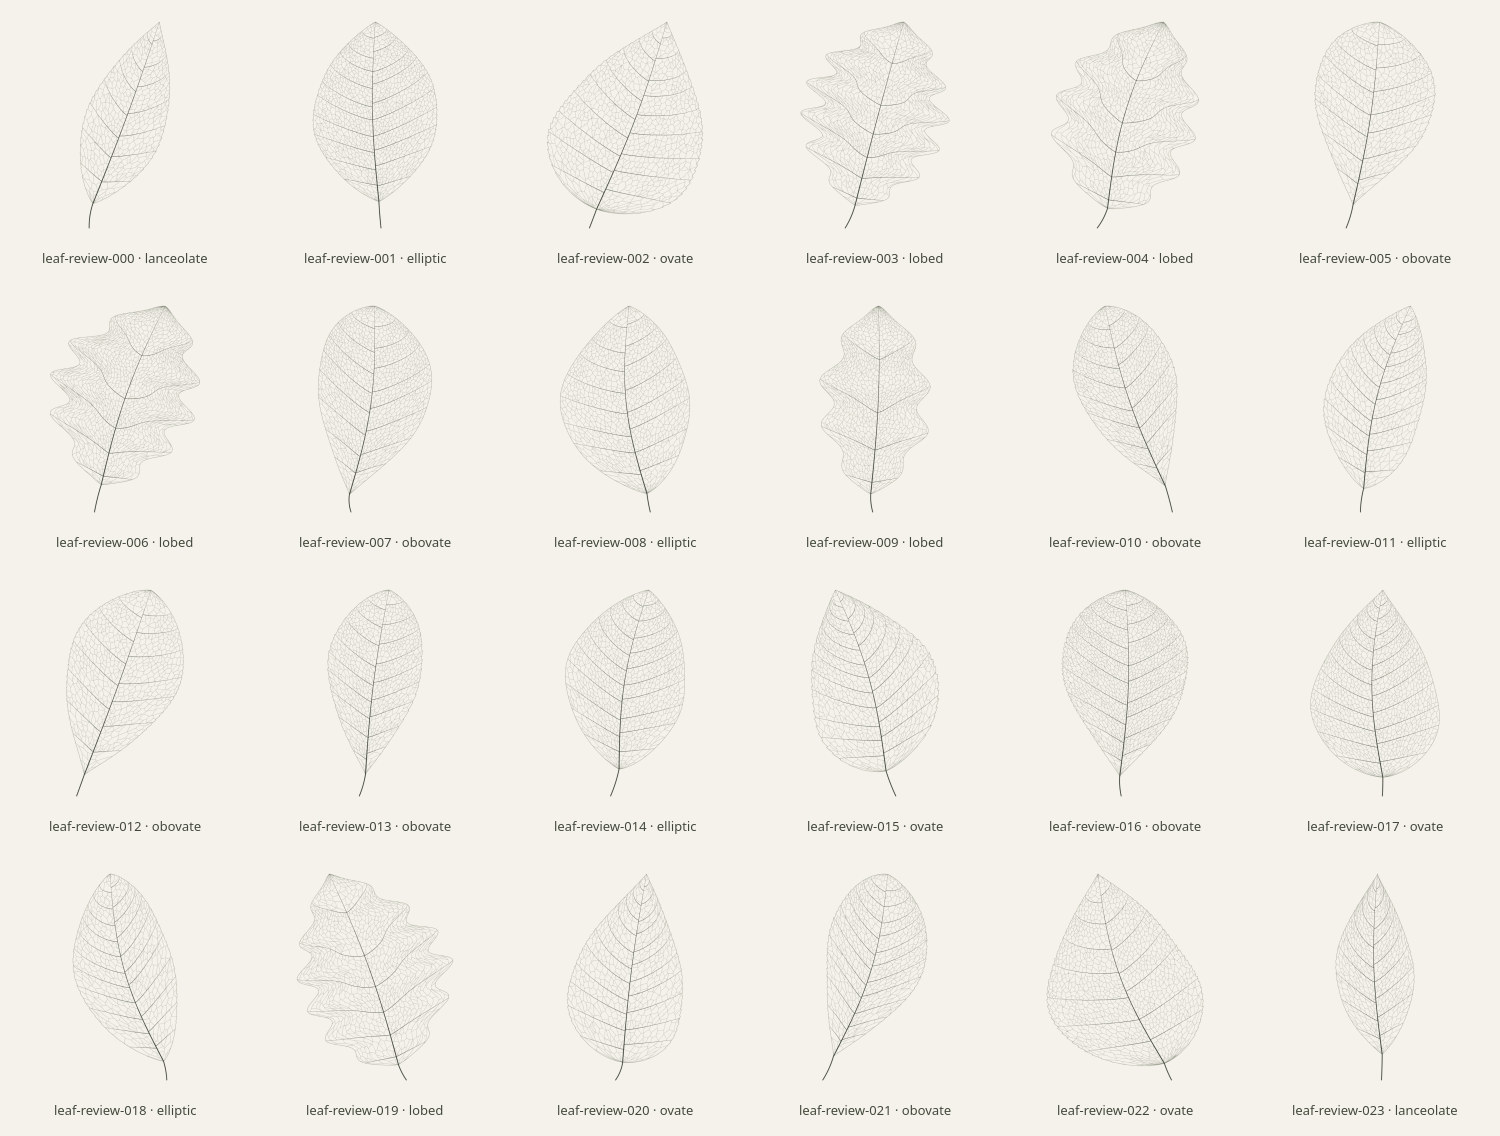
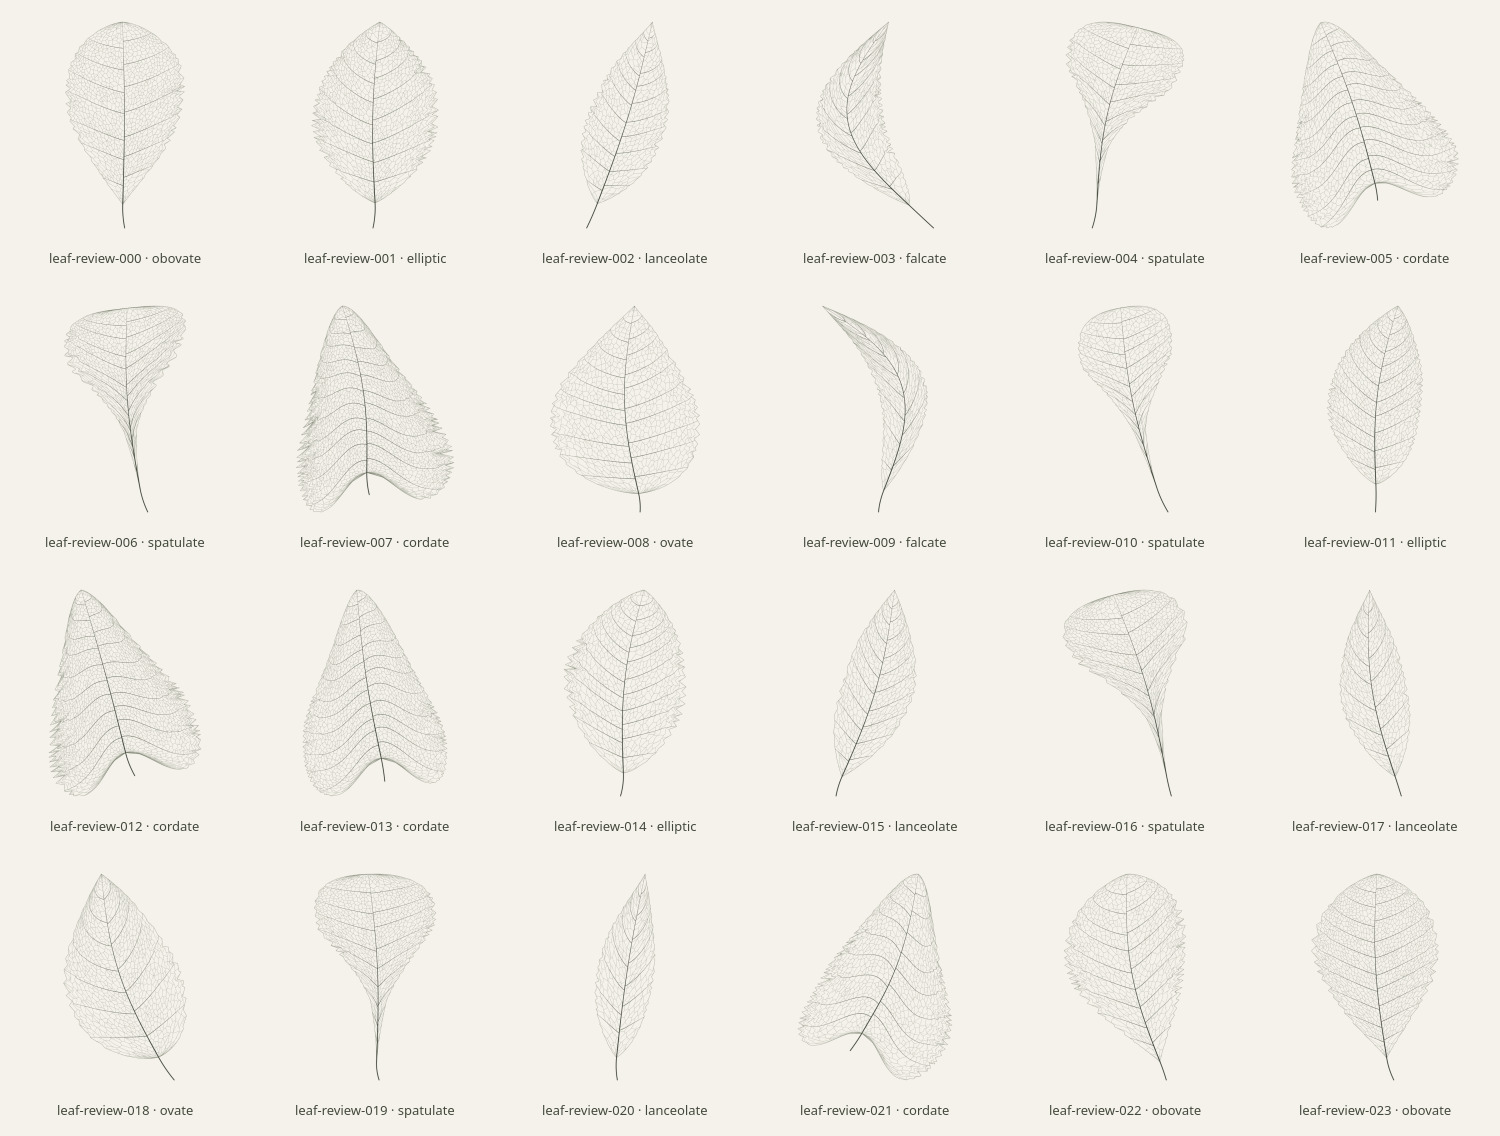
Add ragged leaf margins and eight distinct botanical profiles

diff --git a/src/generators/leaves/generate.js b/src/generators/leaves/generate.js
@@ -8,8 +8,50 @@ const profiles = [
   { name: 'ovate', a: .58, b: 1.05, breadth: [.30, .41], lobes: 0 },
   { name: 'lanceolate', a: .88, b: 1.12, breadth: [.15, .23], lobes: 0 },
   { name: 'obovate', a: 1.12, b: .69, breadth: [.25, .36], lobes: 0 },
-  { name: 'lobed', a: .67, b: .82, breadth: [.30, .40], lobes: 5 },
+  { name: 'lobed', a: .67, b: .82, breadth: [.33, .43], lobes: 5 },
+  { name: 'cordate', a: .38, b: .77, breadth: [.42, .51], lobes: 0 },
+  { name: 'spatulate', a: 1.75, b: .38, breadth: [.25, .34], lobes: 0 },
+  { name: 'falcate', a: .79, b: 1.12, breadth: [.12, .19], lobes: 0 },
 ];
+
+function knotValue(knots, t, rounded = false) {
+  let lo = 0, hi = knots.length - 1;
+  while (hi - lo > 1) {
+    const mid = (lo + hi) >> 1;
+    if (knots[mid][0] < t) lo = mid; else hi = mid;
+  }
+  const [a, b] = [knots[lo], knots[hi]];
+  const fraction = clamp((t - a[0]) / (b[0] - a[0]), 0, 1);
+  return lerp(a[1], b[1], rounded ? .5 - .5 * Math.cos(Math.PI * fraction) : fraction);
+}
+
+function irregularMargin(random, count, strength, style) {
+  const spacing = Array.from({ length: count }, () => .55 + random() * .95);
+  const total = spacing.reduce((sum, size) => sum + size, 0);
+  const knots = [[0, 0]];
+  let t = 0;
+  for (let i = 0; i < count; i++) {
+    const step = spacing[i] / total;
+    const peak = style === 'serrate' ? .53 + random() * .31 : .30 + random() * .37;
+    const notch = strength * (.48 + random() * .9) * (random() < .16 ? 1.45 : 1);
+    knots.push([t + step * peak, -strength * random() * .16]);
+    t += step;
+    knots.push([i === count - 1 ? 1 : t, i === count - 1 ? 0 : Math.min(.18, notch)]);
+  }
+  return { knots, style, count };
+}
+
+function irregularLobes(random, count) {
+  const tips = Array.from({ length: count }, (_, i) => (i + .38 + (random() - .5) * .22) / count);
+  const depths = Array.from({ length: count + 1 }, () => .23 + random() * .15);
+  const knots = [[0, 1 - depths[0]]];
+  tips.forEach((tip, i) => {
+    knots.push([tip, .95 + random() * .10]);
+    if (i < tips.length - 1) knots.push([lerp(tip, tips[i + 1], .42 + random() * .16), 1 - depths[i + 1]]);
+  });
+  knots.push([1, 1 - depths.at(-1)]);
+  return { tips, knots };
+}
 
 function clip(polygon, nx, ny, c) {
   const result = [];
@@ -79,32 +121,55 @@ export function leafGeometry(seed) {
   const b = profile.b + (random() - .5) * .14;
   const peak = a / (a + b);
   const normalizer = peak ** a * (1 - peak) ** b;
-  const bend = (random() - .5) * 95;
+  const bend = profile.name === 'falcate'
+    ? (random() < .5 ? -1 : 1) * length * (.23 + random() * .12)
+    : (random() - .5) * 95;
   const lean = (random() - .5) * 55;
   const asymmetry = (random() - .5) * .13;
   const phase = random() * TAU;
-  const lobes = profile.lobes ? 4 + Math.floor(random() * 3) : 0;
-  const lobeDepth = .18 + random() * .13;
-  const teeth = profile.name === 'lobed' ? 0 : (random() < .48 ? 20 + Math.floor(random() * 17) : 0);
-  const toothDepth = .012 + random() * .018;
+  const lobes = profile.lobes ? 3 + Math.floor(random() * 4) : 0;
+  const teeth = (profile.name === 'cordate' ? 26 : 17) + Math.floor(random() * 14);
+  const marginStyle = ['serrate', 'dentate', 'crenate'][Math.floor(random() * 3)];
+  const marginStrength = (lobes ? .026 : .048) + random() * (lobes ? .039 : .052);
+  const margins = [-1, 1].map(() => irregularMargin(random, teeth, marginStrength, marginStyle));
+  const lobing = lobes ? [-1, 1].map(() => irregularLobes(random, lobes)) : null;
+  const basalShear = profile.name === 'cordate' ? length * (.24 + random() * .08) : 0;
   const angle = (random() - .5) * .72;
   const pairs = lobes ? lobes + 1 : 8 + Math.floor(random() * 5);
   const sweep = .13 + random() * .11;
   const fineSpacing = 12.5 + random() * 4.5;
   const skeleton = [], regions = [];
   const center = t => bend * Math.sin(Math.PI * t) + lean * t;
-  const halfWidth = (t, side) => {
+  const envelopeWidth = (t, side) => {
     if (t <= 0 || t >= 1) return 0;
     const base = breadth * t ** a * (1 - t) ** b / normalizer;
     const uneven = 1 + side * asymmetry * Math.sin(Math.PI * t) + .018 * Math.sin(13 * t + phase + side);
-    const lobed = lobes ? 1 - lobeDepth * (.5 + .5 * Math.cos(TAU * (t * lobes + .13))) : 1;
-    const serrated = teeth ? 1 - toothDepth * (1 - ((t * teeth + .14 * side) % 1)) : 1;
-    return base * uneven * lobed * serrated;
+    const neck = profile.name === 'spatulate' ? .38 + .62 * clamp((t - .32) / .38, 0, 1) : 1;
+    // Keep a small blade beside the thick midrib as a spoon-shaped leaf
+    // narrows into its petiole, rather than pinching it to subpixel width.
+    const basalBlade = profile.name === 'spatulate' ? breadth * .012 * Math.sin(Math.PI * t) ** .35 * Math.exp(-10 * t) : 0;
+    return base * uneven * neck + basalBlade;
   };
+  // A vertical shear creates basal lobes around the cordate petiole notch.
+  // Since y is displaced only as a function of x, the shear preserves the
+  // orientation and connectivity of the existing vein map.
+  const shear = x => basalShear * (1 - Math.exp(-3.8 * (x / breadth) ** 2));
+  const rotate = (x, y) => [x * Math.cos(angle) - y * Math.sin(angle), x * Math.sin(angle) + y * Math.cos(angle)];
   const position = (u, t, side) => {
-    const x = center(t) + side * halfWidth(t, side) * u;
-    const y = -length * t;
-    return [x * Math.cos(angle) - y * Math.sin(angle), x * Math.sin(angle) + y * Math.cos(angle)];
+    const margin = margins[side < 0 ? 0 : 1];
+    const gate = profile.name === 'spatulate' ? clamp((t - .22) / .32, 0, 1) : 1;
+    const indentation = knotValue(margin.knots, t, margin.style === 'crenate') * Math.sin(Math.PI * clamp(t, 0, 1)) ** .65 * gate;
+    // Concentrate raggedness at the edge instead of corrugating the whole
+    // skeleton. With indentation <= .18, d(u - indentation*u^4)/du >= .28,
+    // so even deep notches cannot fold the interior vein network.
+    const innerRadius = u - indentation * u ** 4;
+    const lobe = lobing ? knotValue(lobing[side < 0 ? 0 : 1].knots, t, true) : 1;
+    // Lobe indentation also fades toward the midrib. Its minimum derivative
+    // is positive (lobe >= .62), so composition with the margin map stays
+    // monotone while leaving inner areoles less distorted near a sinus.
+    const radius = innerRadius + (lobe - 1) * innerRadius ** 2;
+    const x = center(t) + side * envelopeWidth(t, side) * radius;
+    return rotate(x, -length * t + shear(x));
   };
   const add = (points, role, width, stroke) => {
     if (points.length > 1) skeleton.push({ points, role, width, stroke });
@@ -120,8 +185,7 @@ export function leafGeometry(seed) {
     const roots = [0];
     if (lobes) {
       // An oak-like lateral vein feeds the tip of each lobe, not its sinus.
-      for (let i = 0; i < lobes; i++) {
-        const target = (i + .37) / lobes;
+      for (const target of lobing[side < 0 ? 0 : 1].tips) {
         let lo = 0, hi = 1;
         for (let step = 0; step < 28; step++) {
           const mid = (lo + hi) / 2;
@@ -136,15 +200,18 @@ export function leafGeometry(seed) {
     for (let r = 0; r < roots.length - 1; r++) {
       const lo = roots[r], hi = roots[r + 1];
       const mid = (lo + hi) / 2;
-      const regionWidth = Math.max(5, halfWidth(veinAt(mid, .5), side));
+      const regionWidth = Math.max(5, envelopeWidth(veinAt(mid, .5), side) * (lobes ? .85 : 1));
       const regionHeight = Math.max(5, (hi - lo) * length * .82);
       const network = areoles(regionWidth, regionHeight, fineSpacing, random);
-      const map = ([u, v]) => position(u, lerp(veinAt(lo, u), veinAt(hi, u), v), side);
+      const bladeT = ([u, v]) => lerp(veinAt(lo, u), veinAt(hi, u), v);
+      const map = ([u, v]) => position(u, bladeT([u, v]), side);
+      const mappedLine = (start, end, minimum) => sample(t => map([lerp(start[0], end[0], t), lerp(start[1], end[1], t)]),
+        Math.max(minimum, Math.ceil(Math.abs(bladeT(start) - bladeT(end)) * length / 1.25)));
       regions.push({ side, lo, hi, cells: network.cells, edges: network.edges });
       for (const [start, end] of network.edges) {
         // Boundaries are already drawn by a major vein or the blade margin.
         if ([0, 1].some(k => Math.abs(start[k] - end[k]) < 1e-7 && (start[k] < 1e-7 || start[k] > 1 - 1e-7))) continue;
-        const points = sample(t => map([lerp(start[0], end[0], t), lerp(start[1], end[1], t)]), 4);
+        const points = mappedLine(start, end, 4);
         add(points, 'minor', .44 + random() * .14, ink.tertiary);
       }
       // Freely ending veinlets are subordinate branches inside closed areoles.
@@ -155,7 +222,7 @@ export function leafGeometry(seed) {
         const start = cell[edge], end = cell[(edge + 1) % cell.length];
         const root = [lerp(start[0], end[0], .5), lerp(start[1], end[1], .5)];
         const tip = [lerp(root[0], center[0], .74), lerp(root[1], center[1], .74)];
-        add(sample(t => map([lerp(root[0], tip[0], t), lerp(root[1], tip[1], t)]), 3), 'veinlet', .32, ink.tertiary);
+        add(mappedLine(root, tip, 3), 'veinlet', .32, ink.tertiary);
       }
     }
     // Secondary veins thin toward the margin instead of stopping abruptly.
@@ -165,7 +232,10 @@ export function leafGeometry(seed) {
         return position(u, veinAt(root, u), side);
       }, 10), 'secondary', lerp(1.9, .60, (part + .5) / 5) * (1 - root * .28), ink.secondary);
     }
-    add(sample(t => position(1, t, side), 700), 'margin', .78, ink.margin);
+    const outlineSamples = [...Array.from({ length: 701 }, (_, i) => i / 700),
+      ...margins[side < 0 ? 0 : 1].knots.map(knot => knot[0]),
+      ...(lobing ? lobing[side < 0 ? 0 : 1].knots.map(knot => knot[0]) : [])].sort((a, b) => a - b);
+    add(outlineSamples.map(t => position(1, t, side)), 'margin', .78, ink.margin);
   }
   for (let part = 0; part < 10; part++) {
     add(sample(t => position(0, (part + t) / 10, 1), 10), 'primary', lerp(3.7, .45, (part + .5) / 10), ink.primary);
@@ -173,18 +243,19 @@ export function leafGeometry(seed) {
   // The petiole is an attached continuation of the midrib, with a slight bend.
   const stalkLength = 64 + random() * 48;
   const stalkBend = (random() - .5) * 35;
+  const basalTangent = (center(.0001) - center(0)) / (.0001 * length);
   add(sample(t => {
-    const x = stalkBend * t * t, y = stalkLength * t;
-    return [x * Math.cos(angle) - y * Math.sin(angle), x * Math.sin(angle) + y * Math.cos(angle)];
+    const x = -basalTangent * stalkLength * t + stalkBend * t * t;
+    return rotate(x, stalkLength * t + shear(x));
   }, 24), 'petiole', 3.4, ink.primary);
   const fitted = fitLines(skeleton.map(path => path.points), 1000, 1000, 88);
   return { paths: skeleton.map((path, i) => ({ ...path, points: fitted[i] })), regions,
-    traits: { profile: profile.name, lobes, teeth, secondaryPairs: pairs - 1, fineSpacing,
-      length, breadth, bend, angle, areoles: regions.reduce((sum, region) => sum + region.cells.length, 0) } };
+    traits: { profile: profile.name, lobes, teeth, marginStyle, marginStrength, secondaryPairs: pairs - 1, fineSpacing,
+      length, breadth, bend, basalShear, angle, areoles: regions.reduce((sum, region) => sum + region.cells.length, 0) } };
 }
 
 export function generateLeaf(seed) {
   const { paths, traits } = leafGeometry(seed);
   return { ...drawing(paths.map(path => ({ d: line(path.points), width: path.width, stroke: path.stroke })), { rounded: true }),
-    mode: 'leaves', seed, artRevision: 1, traits };
+    mode: 'leaves', seed, artRevision: 2, traits };
 }

diff --git a/src/main.js b/src/main.js
@@ -197,9 +197,10 @@ async function nextPainting({ cachedFirst = false, seed = null, historyAction = 
     const cached = seed ? await paintingCache.find(mode, seed)
       : cachedFirst ? await paintingCache.next(mode, paintings.get(mode)?.seed) : null;
     if (token !== revision) return;
-    // Older flower PNGs have the original rounded mask baked into their pixels.
-    // Regenerate the same seed once, then cache the complete artwork and preview.
-    const regenerateCached = cached?.mode === 'flowers' && cached.artRevision !== 2;
+    // Refresh revised generators without losing the saved/shared seed. This
+    // also retires older flower PNGs with the rounded mask baked into them.
+    const requiredRevision = projects[mode].artRevision;
+    const regenerateCached = cached && requiredRevision && cached.artRevision !== requiredRevision;
     if (cached && !regenerateCached) {
       if (await showPainting(cached, token, historyAction)) void prepareCurrentExport(token);
     } else {

diff --git a/src/generators/flowers/project.js b/src/generators/flowers/project.js
@@ -1,1 +1,1 @@
-export default { published: '2018-02-12', label: 'Flowers', title: 'Nonflowers', author: 'Lingdong Huang', source: 'https://github.com/LingDong-/nonflowers', ratio: 1, orientation: 'portrait' };
+export default { published: '2018-02-12', label: 'Flowers', title: 'Nonflowers', author: 'Lingdong Huang', source: 'https://github.com/LingDong-/nonflowers', ratio: 1, orientation: 'portrait', artRevision: 2 };

diff --git a/src/generators/leaves/project.js b/src/generators/leaves/project.js
@@ -1,3 +1,3 @@
 export default { published: '2026-11-04', label: 'Leaf Skeletons', title: 'Leaf Skeletons',
   author: 'Painting', source: 'https://github.com/HectorRguez/painting-prints/tree/main/src/generators/leaves',
-  ratio: 1, orientation: 'portrait', renderer: 'lines', bundled: false };
+  ratio: 1, orientation: 'portrait', renderer: 'lines', bundled: false, artRevision: 2 };

diff --git a/src/generators/leaves/README.md b/src/generators/leaves/README.md
@@ -1,15 +1,27 @@
 # Leaf skeletons
 
-An original, deterministic botanical drawing generator. Five silhouette families
-(elliptic, ovate, lanceolate, obovate, and pinnately lobed) vary in proportion,
-curvature, asymmetry, margin, secondary spacing, and minor-vein layout. These are
-plausible botanical profiles, not reconstructions of named species.
+An original, deterministic botanical drawing generator. Eight silhouette families
+(elliptic, ovate, lanceolate, obovate, pinnately lobed, cordate, spatulate, and
+falcate) vary in proportion, curvature, asymmetry, margin, secondary spacing,
+and minor-vein layout. These are plausible botanical profiles, not
+reconstructions of named species.
+
+Cordate blades have rounded basal lobes around the petiole, spatulate blades
+broaden above a narrow neck, and falcate blades curve into a sickle. Lobed
+blades have independently varied lobe positions and depths on either side.
+Serrate, dentate, and rounded crenate margins have unequal tooth spacing,
+unequal depths, and occasional deeper notches. Edge deformation fades inward
+to preserve the legibility of the vein cells.
 
 The drawing has a tapered midrib and petiole, curved secondary veins, a connected
 network of closed minor-vein loops (areoles), and short freely ending veinlets.
 Lobed profiles direct their secondary veins toward lobe tips. An endpoint-fixed,
 monotone map fills every sector from the midrib to the blade margin, including
 the base and apex, without folding adjacent sectors over one another.
+The ragged edge uses a monotone radial deformation; the heart-shaped base uses
+a smooth vertical shear. Both preserve the vein map's orientation and
+connectivity. The cordate shear saturates away from the midrib so the basal
+lobes stay rounded rather than becoming pointed wings.
 
 Minor-vein cells are bounded Voronoi polygons generated from irregular,
 well-spaced sites. All adjacent polygons share edges; their network connects to
@@ -32,14 +44,20 @@ geometry. Background paper remains optional.
 
 Generation is fast enough to run on first use, so the style sets `bundled: false`
 instead of shipping a starter PNG collection. Existing browser caching preserves
-the full drawing and prepared preview. Seed URLs regenerate the same geometry.
+the full drawing and prepared preview. Seed URLs regenerate the same geometry
+for a given artwork revision. Revision 2 adds the three new families and ragged
+margins; the app upgrades previously cached leaves by regenerating their seeds.
 
 ## Verification
 
 `npm test` includes deterministic Unicode seeds, 48 distinct geometric outputs,
-all five profile families, bounded coordinates and complexity, connected closed
+all eight profile families and three margin styles, measured blade anatomy,
+visible edge irregularity, bounded coordinates and complexity, connected closed
 vein graphs, sector coverage, shipping-worker parity, cache reloads, and vector
-exports. The normal preparation step builds the worker first.
+exports. Anatomy checks measure the actual outline and midrib, including the
+spatulate blade's distal maximum width, the falcate midrib's curvature, and the
+cordate blade's rounded basal lobes. The normal preparation step builds the
+worker first.
 
 For a visual audit, install the optional `canvas` package locally without saving
 it to the project, then run:
@@ -51,7 +69,18 @@ node scripts/review-leaves.mjs /tmp/painting-art-review/leaves 48
 
 Alternatively set `CANVAS_MODULE` to an existing node-canvas installation. The
 audit writes the SVGs, transparent 1200-pixel PNGs, two contact sheets, detail
-crops, and a JSON report with timings, ink bounds, traits, and geometry hashes.
+crops, and a JSON report with revision, timings, ink bounds, traits, and geometry hashes.
 It also checks every raster against the leaf silhouette, allowing two pixels
-for antialiasing and the outline stroke. No generated review
-images are required by the production site.
+for antialiasing and the outline stroke. Contact sheets and detail sheets also
+receive JPEG copies. To refresh the PR gallery after inspecting the audit:
+
+```sh
+cp /tmp/painting-art-review/leaves/leaves-contact-{1,2}.jpg docs/previews/
+cp /tmp/painting-art-review/leaves/leaves-detail-{lobed,margin,profiles}.jpg docs/previews/
+```
+
+The [48-seed gallery](../../../docs/previews/leaves-contact-1.jpg),
+[second sheet](../../../docs/previews/leaves-contact-2.jpg),
+[new profile comparison](../../../docs/previews/leaves-detail-profiles.jpg), and
+[ragged-margin detail](../../../docs/previews/leaves-detail-margin.jpg) are review
+artifacts. No generated review images are required by the production site.

diff --git a/README.md b/README.md
@@ -25,6 +25,9 @@ Every displayed artwork writes its seed to the URL, for example
 `buildings/?seed=painting-stock-v1-buildings-0`. Sharing or reopening that URL loads that
 exact cached painting or regenerates it from the same seed.
 
-Leaf Skeletons generates five families of botanical outlines with connected
-vein networks. Its first drawing is generated on demand, then cached in the
-browser; SVG exports preserve the full vein geometry.
+Leaf Skeletons generates eight families of botanical outlines with connected
+vein networks and irregular serrate, dentate, or crenate margins. Heart-shaped,
+spoon-shaped, and curved leaves join the classic and lobed profiles. Its first
+drawing is generated on demand, then cached in the browser; SVG exports preserve
+the full vein geometry. See the [profile comparison](docs/previews/leaves-detail-profiles.jpg)
+and [margin detail](docs/previews/leaves-detail-margin.jpg).
